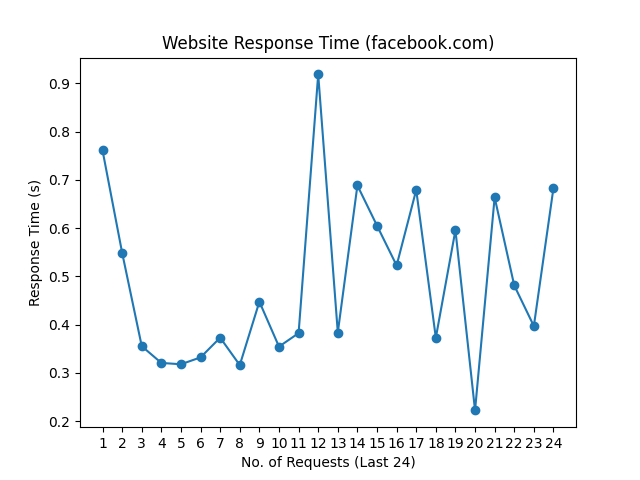
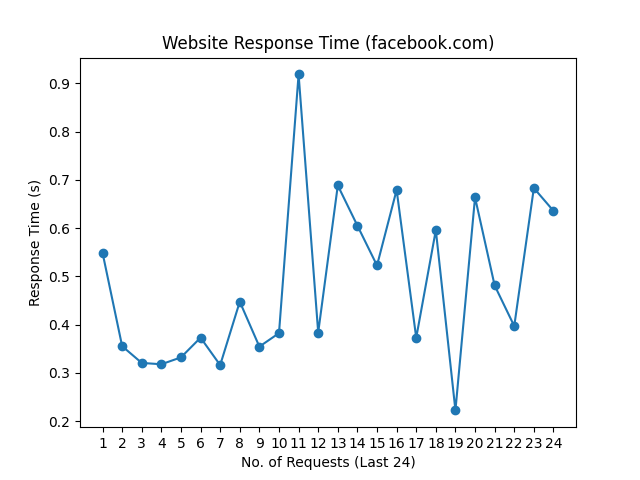
update README.md, history and graph

Changed region(s): [[0.1562, 0.125, 0.875, 0.875]]

diff --git a/README.md b/README.md
@@ -1,10 +1,10 @@
 # Web Monitoring
 
-Last Checked: 15/11/2023 09:02
+Last Checked: 16/11/2023 09:03
 
 | Website | Response Time (s) | Status | Avg Uptime (%) |
 |---------|-------------------|--------|----------------|
 | www.thiswebsiteisdown.net | 0 <br> <img src="graph/thiswebsiteisdown.net.png" alt="Graph" width="200" height="200">  | ❌ Down | 0.00 |
-| www.netflix.com | 0.385007 <br> <img src="graph/netflix.com.png" alt="Graph" width="200" height="200">  | ✅ Up | 100.00 |
-| www.google.com | 0.066632 <br> <img src="graph/google.com.png" alt="Graph" width="200" height="200">  | ✅ Up | 100.00 |
-| www.facebook.com | 0.682899 <br> <img src="graph/facebook.com.png" alt="Graph" width="200" height="200">  | ✅ Up | 100.00 |
+| www.netflix.com | 0.531366 <br> <img src="graph/netflix.com.png" alt="Graph" width="200" height="200">  | ✅ Up | 100.00 |
+| www.google.com | 0.069307 <br> <img src="graph/google.com.png" alt="Graph" width="200" height="200">  | ✅ Up | 100.00 |
+| www.facebook.com | 0.635693 <br> <img src="graph/facebook.com.png" alt="Graph" width="200" height="200">  | ✅ Up | 100.00 |
